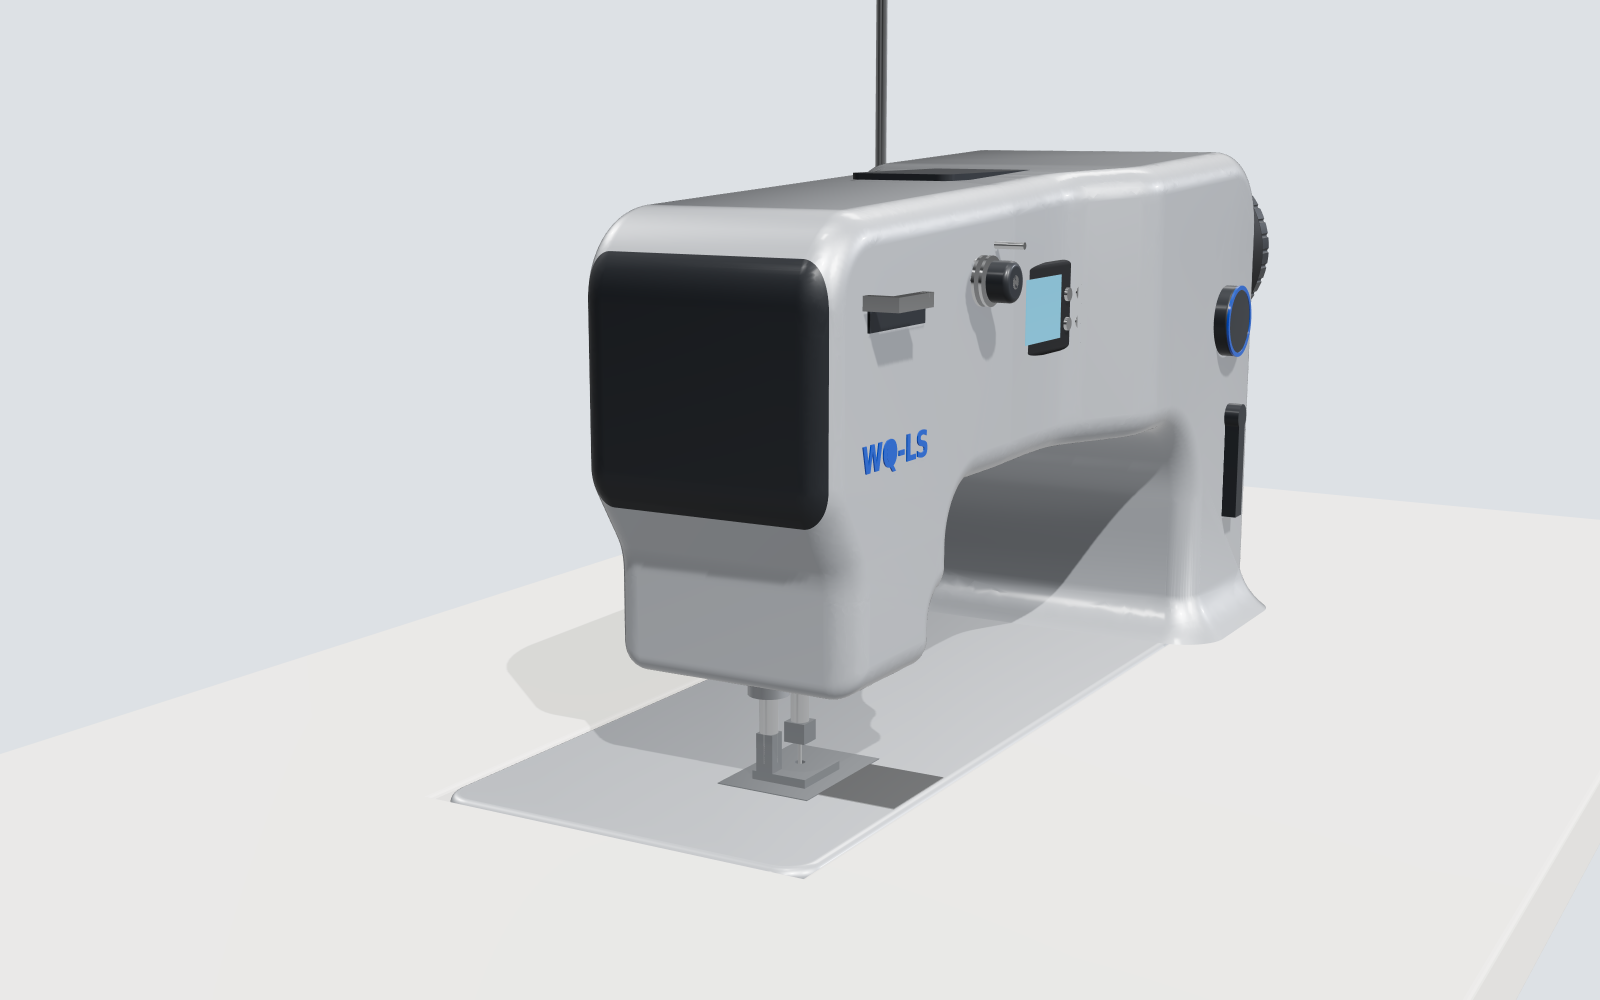
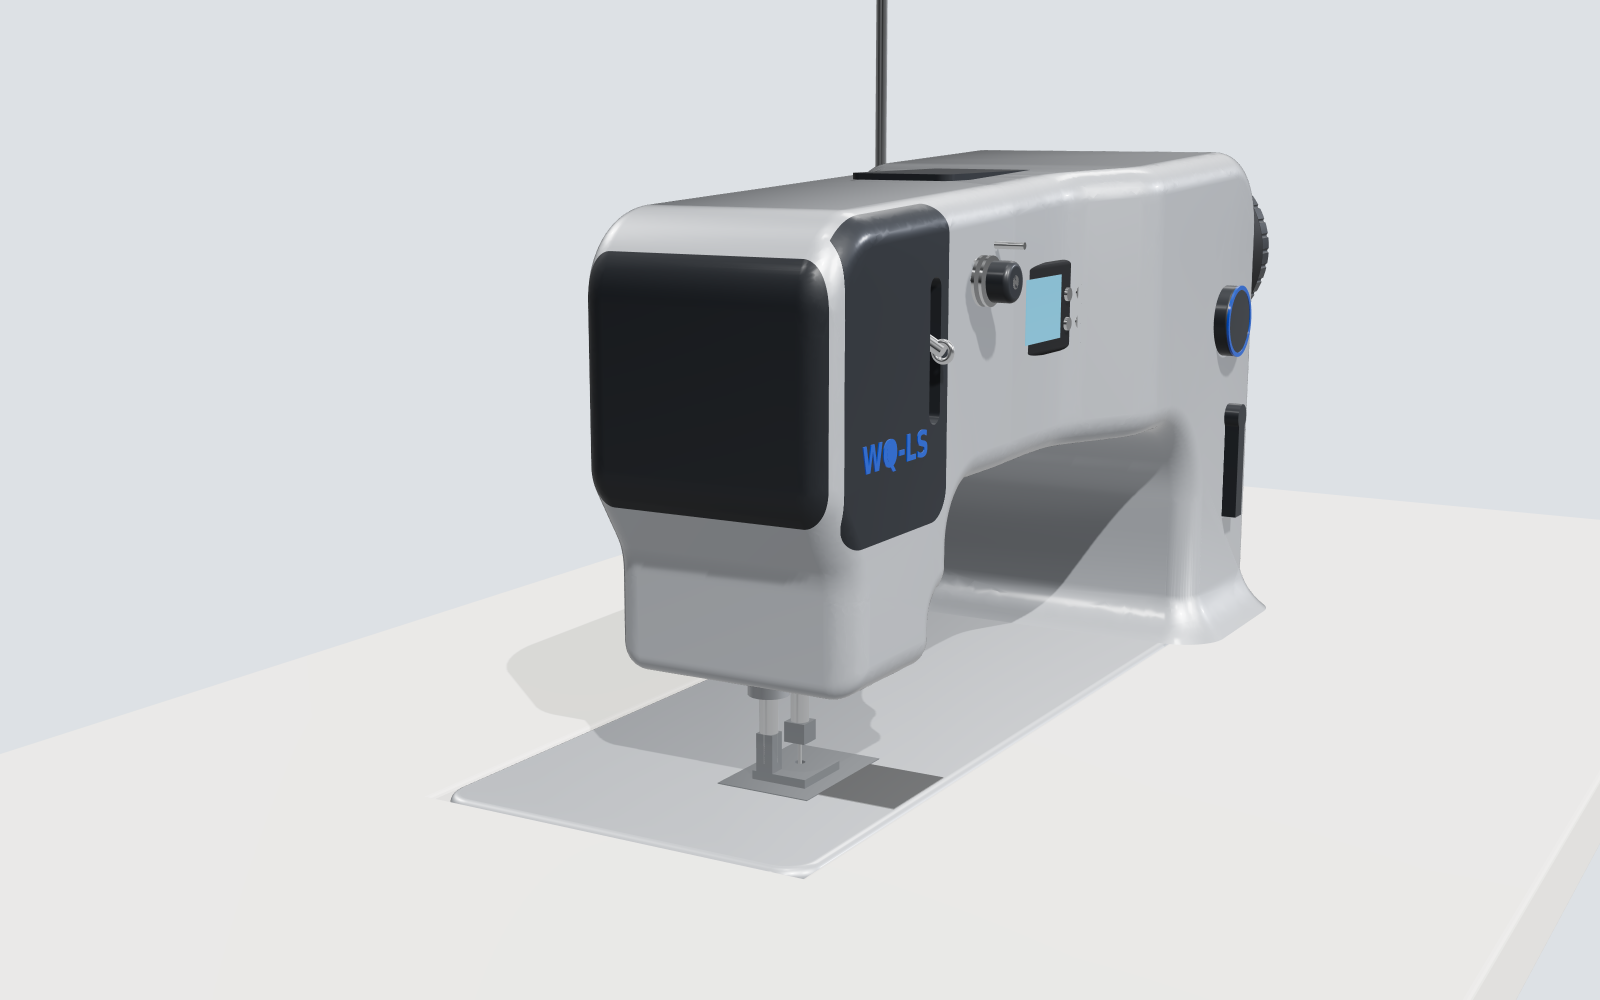
第138轮 G3：机头前盖板窗口、挑线杆按四连杆姿态从竖槽伸出
Claude-Session: https://claude.ai/code/session_01NKjsqWvDSpVGBBfSfcC778

Changed region(s): [[0.5, 0.186, 0.5938, 0.558]]

diff --git a/tools/wqls/cad/housing.py b/tools/wqls/cad/housing.py
@@ -33,6 +33,11 @@ WALL = float(os.environ.get("WQ_WALL", 6.0))
 ARM_Y = (-46.0, 70.0)          # 机臂前后（G3 模态迭代：由 −38…60 加深到 −46…70）
 RIBS = os.environ.get("WQ_RIBS", "1") == "1"
 HEADWALL = float(os.environ.get("WQ_HEADWALL", 5.0))
+FRONT_COVER = os.environ.get("WQ_FRONTCOVER", "1") == "1"
+FC_WIN = (-40.0, 34.0, 118.0, 236.0)       # 机头前盖板窗口 x0, x1, z0, z1
+X_TAKEUP = 30.0
+TK_SLOT = (152.0, 214.0)                   # 前盖板上挑线杆竖槽的上下端（挑线眼一转里在 z 165–204 之间走，留余量）
+TK_POSE = [(-2.5, 20.6), (31.9, -5.9), (51.5, -17.0)]   # 设计软件 link_pose(φ = 180°)：P、M、线眼，端视坐标 mm
 BEDWALL = float(os.environ.get("WQ_BEDWALL", 6.0))
 ROOTWALL = float(os.environ.get("WQ_ROOTWALL", 9.0))
 ROOT_X = float(os.environ.get("WQ_ROOTX", 230.0))
@@ -273,6 +278,12 @@ def casting():
         for r_ in rb:
             hollow = hollow.fuse(r_)
         hollow = hollow.removeSplitter()
+    # 机头前盖板窗口（Eddie 11-10 14:08）：机头前面开窗，调针杆高度、挑线机构、加油都从这里；窗口四周留 8 mm 法兰装前盖板
+    if FRONT_COVER:
+        win = Part.makeBox(FC_WIN[1] - FC_WIN[0], WALL + 4, FC_WIN[3] - FC_WIN[2], V(FC_WIN[0], HEAD["y0"] - 2, FC_WIN[2]))
+        win = win.makeFillet(10, [e for e in win.Edges if abs(e.BoundBox.YLength - (WALL + 4)) < 1e-6])
+        hollow = hollow.cut(win)
+        info["front_window"] = FC_WIN
     info["solid_valid"] = solid.isValid()
     info["hollow_valid"] = hollow.isValid()
     return solid, hollow, info
@@ -307,8 +318,17 @@ def parts_visible(cast):
     # 面板（机头左端）、顶盖
     # 面板：机头左端 7 mm 一片，外形跟机头一样（真机上是可拆的面板，盖住针杆、挑线机构）
     cut = Part.makeBox(7.0, 400, 400, V(HEAD["x0"] - 1, -200, 90))
-    g["paint"] = [cast.cut(cut)]
+    body = cast.cut(cut)
     g["graphite"].append(cast.common(cut))
+    if FRONT_COVER:                                   # 前盖板：机头前面一片（比窗口四周大 8 mm），外形跟机头一样
+        fx0, fx1, fz0, fz1 = FC_WIN
+        cv = Part.makeBox(fx1 - fx0 + 16, 8.0, fz1 - fz0 + 16, V(fx0 - 8, HEAD["y0"] - 1, fz0 - 8))
+        cv = cv.makeFillet(14, [e for e in cv.Edges if abs(e.BoundBox.YLength - 8.0) < 1e-6])
+        slot = Part.makeBox(10, 20, TK_SLOT[1] - TK_SLOT[0], V(X_TAKEUP - 5, HEAD["y0"] - 10, TK_SLOT[0]))
+        slot = slot.makeFillet(4.9, [e for e in slot.Edges if abs(e.BoundBox.YLength - 20) < 1e-6])
+        g["graphite"].append(body.common(cv).cut(slot))
+        body = body.cut(cv)
+    g["paint"] = [body]
     tc = Part.makeBox(150, 52, 3, V(110, -14, (t0 + t1) / 2 + crown - 1.5))
     tc = tc.makeFillet(6, [e for e in tc.Edges if abs(e.BoundBox.ZLength - 3) < 1e-6])
     g["graphite"].append(tc)
@@ -334,10 +354,16 @@ def parts_visible(cast):
     g["metal"].append(Part.makeBox(64, 44, 0.6, V(-32, -22, -0.2)).cut(cyl(1.2, 2, V(0, 0, -1), V(0, 0, 1))))
     g["chrome"].append(Part.makeBox(46, 36, 0.6, V(-23, -58, -0.2)))
     # 挑线杆（从机头前面的长槽伸出）、夹线器、过线
-    g["graphite"].append(Part.makeBox(48, 1.2, 10, V(-30, HEAD["y0"] - 1.2, 196)))     # 槽盖
-    tk = Part.makeBox(30, 5, 6, V(-34, HEAD["y0"] - 16, 205)).fuse(Part.makeBox(5, 16, 6, V(-34, HEAD["y0"] - 16, 205)))
-    tk = tk.cut(cyl(1.8, 10, V(-8, HEAD["y0"] - 14, 204), V(0, 0, 1)))                      # 挑线杆伸出机头，头上有线眼
-    g["chrome"].append(tk)
+    # 挑线杆：位置按设计软件的挑线四连杆算（主轴 φ = TK_PHI 时的姿态），在 x = X_TAKEUP 的平面里摆动，
+    # 从前盖板上的竖槽伸出（端视的 u 指向机器前方，即 −Y）。G4 换成真零件、能转动。
+    P_, M_, E_ = (V(X_TAKEUP, -u, ZU + v) for u, v in TK_POSE)
+    lev = None
+    for a_, b_ in ((P_, M_), (M_, E_)):
+        d_ = b_ - a_
+        seg = Part.makeCylinder(3.0, d_.Length, a_, d_)
+        lev = seg if lev is None else lev.fuse(seg)
+    eye = Part.makeTorus(4.0, 1.4, E_, V(1, 0, 0))
+    g["chrome"].append(lev.fuse(eye))
     tz, tx = 210, 66
     g["chrome"].append(cyl(3, 22, V(tx, -46, tz), V(0, -1, 0)))
     for dy in (-52, -55.5):

diff --git a/docs/设计/WQ-LS/G3/外观与机壳铸件.md b/docs/设计/WQ-LS/G3/外观与机壳铸件.md
@@ -136,3 +136,8 @@ QT450 的弹性模量（169 GPa）、密度（7.1）按常用值，待核。
 ## 七、定案（2026-11-10 13:53）
 
 Eddie：“别标新立异了，先灰铸铁吧。”机壳材料定为 **HT250 灰铸铁**，结构按 B-3：壁厚分区，机臂 6 mm，立柱和机臂根部 9 mm，机座 6 mm，机头 5 mm；立柱深 166 mm。结果为 134 / 227 Hz，铸件约 27 kg。`housing.py` 的默认参数已改成 B-3。压铸铝的分析和样机验证方案留在本文，作为以后改型的备选。
+
+## 八、机头前盖板与挑线杆竖槽（Eddie 11-10 14:08、14:10）
+
+- **前盖板**：机头前面开窗（x −40…34、z 118…236，四角 R10），四周留法兰，装石墨灰前盖板。装配后调针杆高度、挑线机构、加油都从这里进。开窗后模态 130 / 230 Hz（开窗前 134 / 227），仍达标，余量变小，G4 装上机构后复算。
+- **挑线杆**：原来效果图里只是一个不动的示意块，伸出方向也不对。现在按设计软件的挑线四连杆，画出主轴 180° 时的姿态。挑线杆在 x = 30 的平面里摆动，从前盖板上的竖槽（宽 10 mm、z 152…214）伸出；线眼一转里在 z 165…204 之间走，前后走 35 mm。G4 换成真零件，跟着主轴转。
